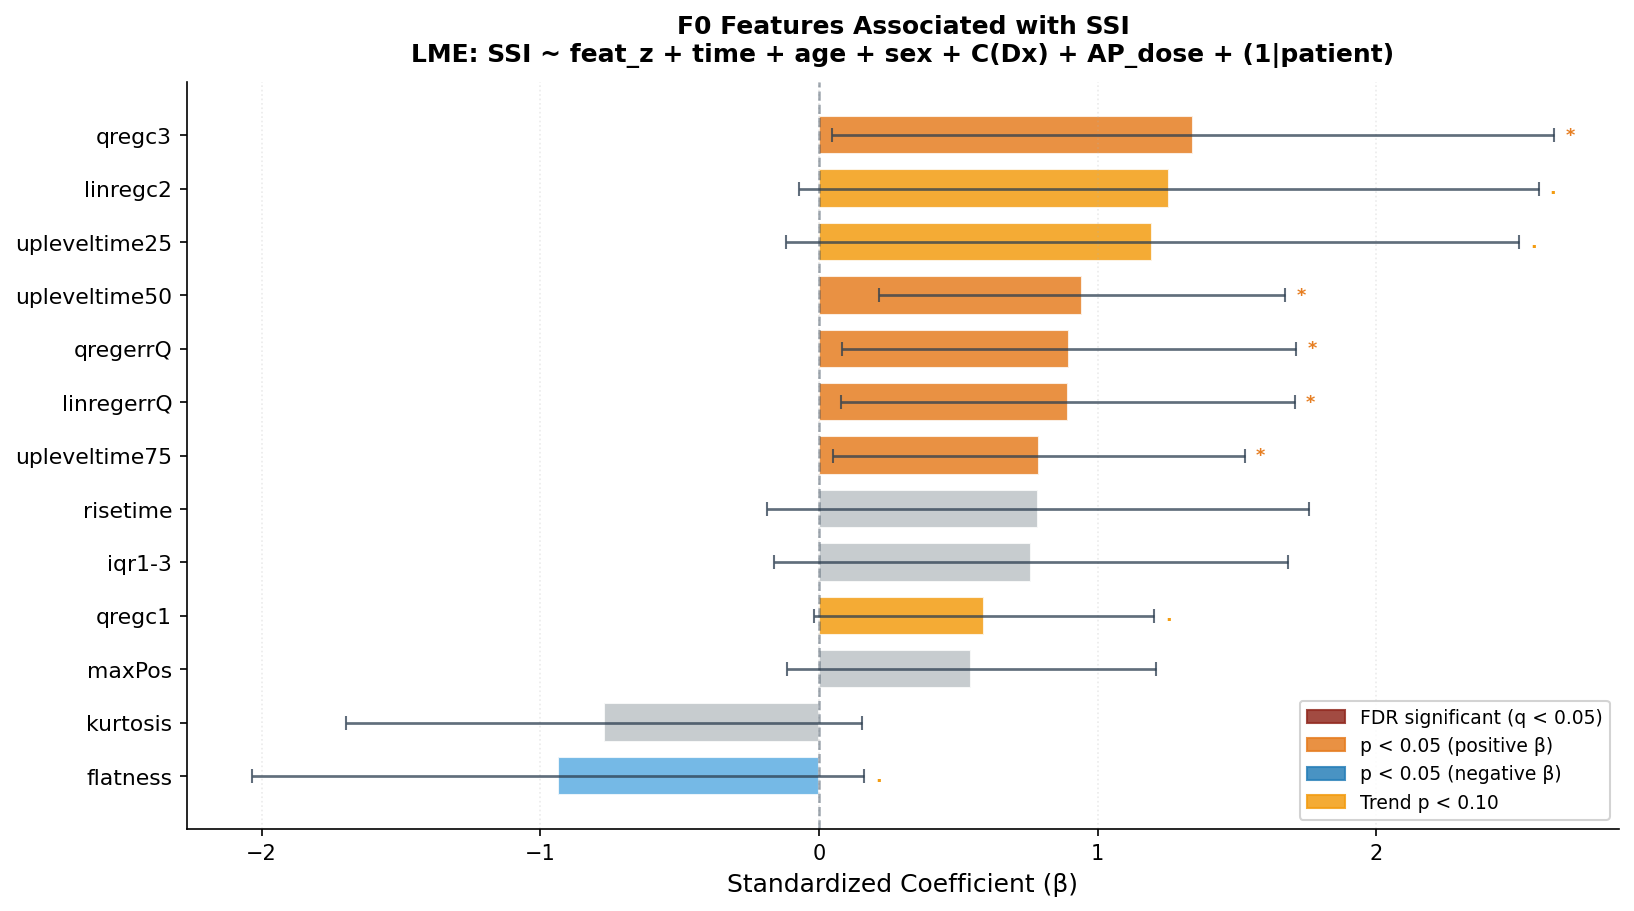
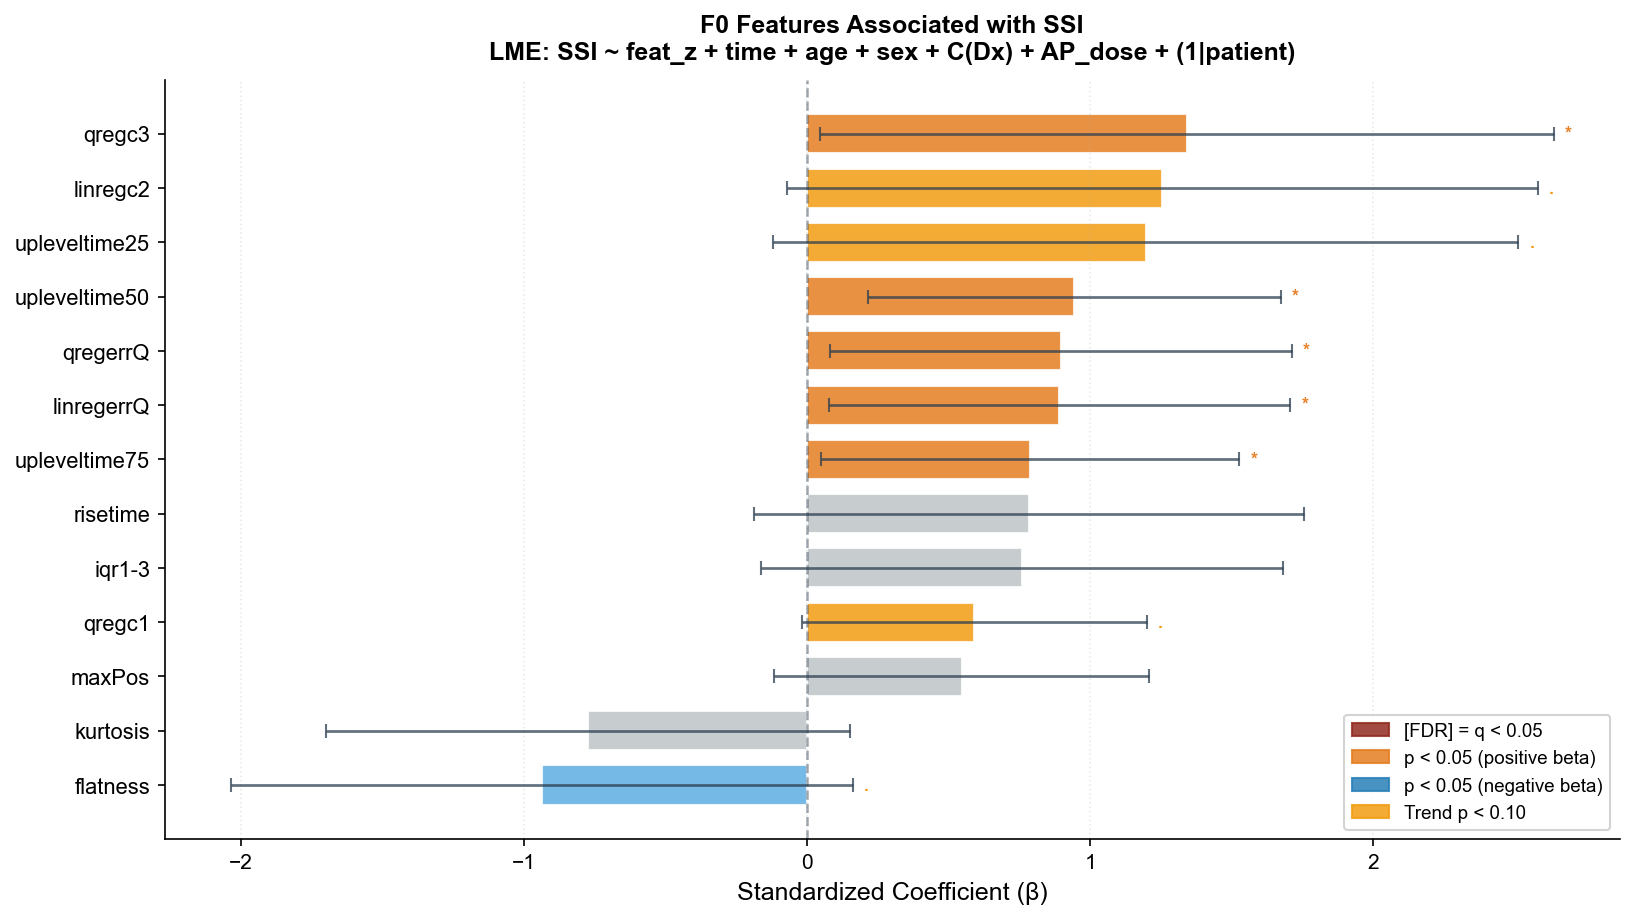
Fix broken star glyphs in v2 forest plots (Arial lacks Unicode star)
Replace star markers (★★★ FDR) with ASCII text ([FDR], [FDR**], [FDR***])
Add Arial font loading at top of script to apply consistently to all figures

https://claude.ai/code/session_01RjnTqhxgmBNbXBjWGBsfdn

diff --git a/plot_lme_results_v2.py b/plot_lme_results_v2.py
@@ -8,8 +8,13 @@ import matplotlib
 matplotlib.use('Agg')
 import matplotlib.pyplot as plt
 import matplotlib.patches as mpatches
+import matplotlib.font_manager as fm
 import warnings
 warnings.filterwarnings('ignore')
+
+fm.fontManager.addfont('/usr/share/fonts/truetype/msttcorefonts/Arial.ttf')
+fm.fontManager.addfont('/usr/share/fonts/truetype/msttcorefonts/Arial_Bold.ttf')
+plt.rcParams['font.family'] = 'Arial'
 
 OUT = '/home/user/PRISM-V/results'
 
@@ -17,9 +22,9 @@ f0_res   = pd.read_csv(f'{OUT}/lme_v2_F0_SSI_results.csv')
 liwc_res = pd.read_csv(f'{OUT}/lme_v2_LIWC_SSI_results.csv')
 
 def sig_marker(row):
-    if row['p_fdr'] < 0.001: return '★★★ FDR', '#C0392B'
-    if row['p_fdr'] < 0.01:  return '★★ FDR',  '#C0392B'
-    if row['p_fdr'] < 0.05:  return '★ FDR',   '#C0392B'
+    if row['p_fdr'] < 0.001: return '[FDR***]', '#C0392B'
+    if row['p_fdr'] < 0.01:  return '[FDR**]',  '#C0392B'
+    if row['p_fdr'] < 0.05:  return '[FDR]',    '#C0392B'
     if row['p_value'] < 0.001: return '***', '#E67E22'
     if row['p_value'] < 0.01:  return '**',  '#E67E22'
     if row['p_value'] < 0.05:  return '*',   '#E67E22'
@@ -59,9 +64,9 @@ for i, (_, row) in enumerate(liwc_top.iterrows()):
                 color=c, fontweight='bold')
 
 legend_patches = [
-    mpatches.Patch(color='#922B21', alpha=0.85, label='FDR significant (q < 0.05)'),
-    mpatches.Patch(color='#E67E22', alpha=0.85, label='p < 0.05 (positive β)'),
-    mpatches.Patch(color='#2980B9', alpha=0.85, label='p < 0.05 (negative β)'),
+    mpatches.Patch(color='#922B21', alpha=0.85, label='[FDR] = q < 0.05'),
+    mpatches.Patch(color='#E67E22', alpha=0.85, label='p < 0.05 (positive beta)'),
+    mpatches.Patch(color='#2980B9', alpha=0.85, label='p < 0.05 (negative beta)'),
     mpatches.Patch(color='#F39C12', alpha=0.85, label='Trend p < 0.10'),
 ]
 ax.legend(handles=legend_patches, fontsize=9, loc='lower right', framealpha=0.85)
@@ -119,11 +124,6 @@ print("✓ v2_forest_F0_SSI.png")
 # ─────────────────────────────────────────────
 # FIGURE 3: Combined Summary (significant only)
 # ─────────────────────────────────────────────
-import matplotlib.font_manager as fm
-
-# Arial 폰트 설정
-plt.rcParams['font.family'] = 'Arial'
-
 fig, axes = plt.subplots(1, 2, figsize=(16, 9))
 
 panels = [
@@ -172,9 +172,6 @@ for ax, (res_sorted, ftype, subtitle) in zip(axes, panels):
 plt.tight_layout()
 plt.savefig(f'{OUT}/v2_summary_significant.png', dpi=150, bbox_inches='tight')
 plt.close()
-
-# rcParams 초기화 (이후 플롯에 영향 없도록)
-plt.rcParams['font.family'] = 'sans-serif'
 print("✓ v2_summary_significant.png")
 
 # ─────────────────────────────────────────────
